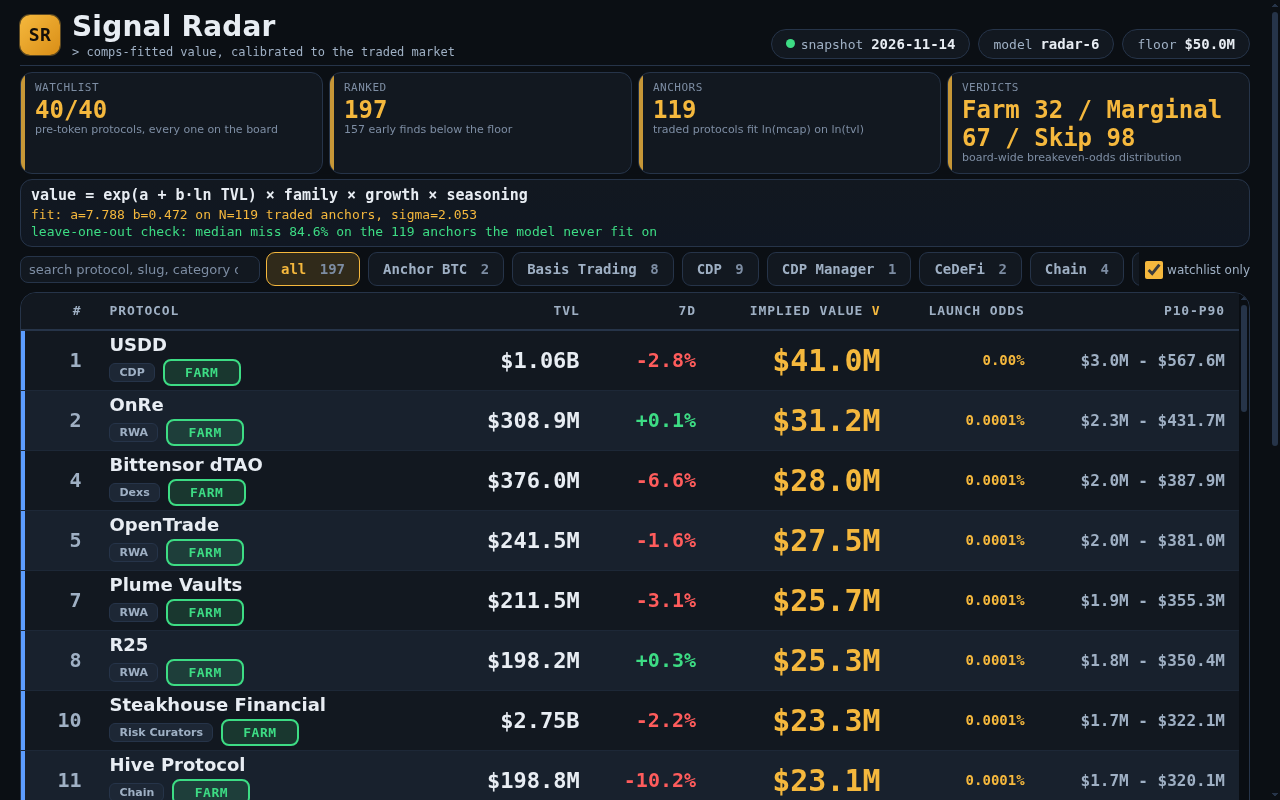
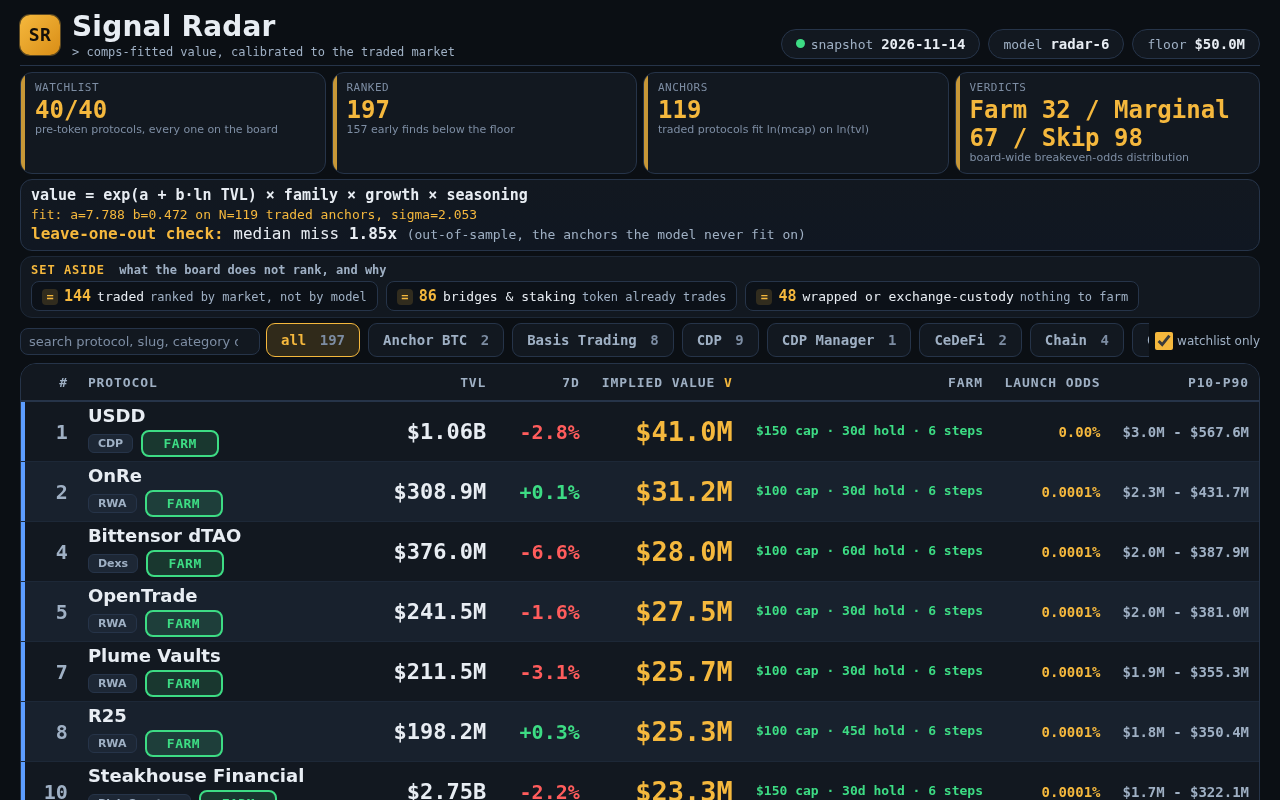
radar-6b: FARM column, set-aside panel, larger LOOCV label
- FARM column on the board shows each row's farm plan summary (cap · hold · steps)
- set-aside panel under the formula strip counts what the board does not rank
  (traded / bridges & staking / wrapped or exchange-custody), computed from the snapshot
- LOOCV leave-one-out label bumped to 16px with amber bold lead-in
- screenshots regenerated (board, detail, filtered)

diff --git a/lib/model.ts b/lib/model.ts
@@ -171,6 +171,8 @@ export interface RadarRow {
   maturity_multiplier: number;
   family_multiplier: number;
   farm_steps: string[];
+  /** One-line farm plan for the board's FARM column: "$100 cap · 45d hold · 6 steps". */
+  farm_summary: string;
 }
 
 /** A live-token protocol: already trading, so it anchors the model instead of being ranked. */
@@ -193,6 +195,21 @@ export interface VerdictThresholds {
   skip_count: number;
 }
 
+/**
+ * The protocols the board sets aside, by reason (radar-6b). These are the snapshot's protocols the
+ * board does not rank, and why: traded protocols the market already prices, bridge/staking wrappers
+ * whose underlying token trades, and wrapped/exchange-custody products with nothing of their own to
+ * farm. The counts come straight from the snapshot, never from a hardcoded list.
+ */
+export interface SetAside {
+  /** Protocols with a market cap (a token that already trades) that the model does not rank. */
+  traded: number;
+  /** Pre-token protocols in a bridge or staking-wrapper category, excluded from the early radar. */
+  bridge_staking: number;
+  /** Pre-token protocols set aside as wrapped/staked-by-name, exchange-named or CEX custody. */
+  wrapped_exchange: number;
+}
+
 /** Everything the dashboard renders, from the snapshot. */
 export interface RadarData {
   as_of: string;
@@ -209,6 +226,7 @@ export interface RadarData {
   live_size: number;
   verdict_thresholds: VerdictThresholds;
   verdict_counts: { farm: number; marginal: number; skip: number };
+  set_aside: SetAside;
   rows: RadarRow[];
   live: LiveRow[];
 }
@@ -427,6 +445,9 @@ const DERIVATIVE_WORD = /\b(wrapped|staked|staking|stake|restaked|restaking|coll
 /** Categories that are bridges or staking wrappers of existing tokens, or an exchange itself. */
 const OFF_LIMITS = new Set(['CEX', 'Bridge', 'Canonical Bridge', 'Liquid Staking', 'Liquid Restaking', 'Restaked BTC']);
 
+/** The bridge/staking-wrapper categories, apart from CEX: their product wraps a token that trades. */
+const BRIDGE_STAKING_CATEGORIES = new Set(['Bridge', 'Canonical Bridge', 'Liquid Staking', 'Liquid Restaking', 'Restaked BTC']);
+
 /** Whether a protocol records no token at all. */
 export function isPreToken(p: SnapshotProtocol): boolean {
   return p.mcap_usd === null && p.gecko_id === null && p.symbol === null;
@@ -441,6 +462,35 @@ export function isEarlyRadar(p: SnapshotProtocol): boolean {
     !EXCHANGE_PREFIX.test(p.name) &&
     !DERIVATIVE_WORD.test(p.name)
   );
+}
+
+/**
+ * The snapshot's protocols the board does not rank, counted by reason: traded protocols the market
+ * already prices (they anchor the comps fit instead), pre-token bridge/staking wrappers whose
+ * underlying token trades, and wrapped/staked-by-name or exchange-custody products with nothing of
+ * their own to farm. The three counts answer "what was set aside, and why".
+ */
+export function setAside(snapshot: Snapshot): SetAside {
+  const watch = new Set(snapshot.watchlist);
+  let traded = 0;
+  let bridge_staking = 0;
+  let wrapped_exchange = 0;
+  for (const p of snapshot.protocols) {
+    if (p.mcap_usd !== null && !watch.has(p.slug)) {
+      traded++;
+      continue;
+    }
+    if (!isPreToken(p)) continue;
+    const cat = p.category ?? '';
+    if (BRIDGE_STAKING_CATEGORIES.has(cat)) {
+      bridge_staking++;
+      continue;
+    }
+    if (cat === 'CEX' || DERIVATIVE_WORD.test(p.name) || EXCHANGE_PREFIX.test(p.name)) {
+      wrapped_exchange++;
+    }
+  }
+  return { traded, bridge_staking, wrapped_exchange };
 }
 
 /** Categories where reported TVL is largely managed/curated AUM and can overstate tokenizable value. */
@@ -549,11 +599,16 @@ function chainOf(p: SnapshotProtocol): string {
 }
 
 /** How much capital one farm position needs, from the protocol's own TVL. */
-function capitalFor(p: SnapshotProtocol): number {
-  if (p.tvl_usd >= 5_000_000_000) return 250;
-  if (p.tvl_usd >= 1_000_000_000) return 150;
-  if (p.tvl_usd >= 100_000_000) return 100;
+function capitalForTvl(tvlUsd: number): number {
+  if (tvlUsd >= 5_000_000_000) return 250;
+  if (tvlUsd >= 1_000_000_000) return 150;
+  if (tvlUsd >= 100_000_000) return 100;
   return 50;
+}
+
+/** How much capital one farm position needs, from the protocol's own TVL. */
+function capitalFor(p: SnapshotProtocol): number {
+  return capitalForTvl(p.tvl_usd);
 }
 
 /** How long to hold, from the protocol's age: a young protocol gets a longer qualifying window. */
@@ -562,6 +617,11 @@ function holdDaysFor(age: number | null): number {
   if (age < 180) return 60;
   if (age < 365) return 45;
   return 30;
+}
+
+/** One line for the board's FARM column: the plan's capital, hold window and step count. */
+export function farmSummary(tvlUsd: number, age: number | null): string {
+  return `$${capitalForTvl(tvlUsd)} cap · ${holdDaysFor(age)}d hold · 6 steps`;
 }
 
 /** The trend sentence the plan carries: the protocol's own seven-day TVL change. */
@@ -680,6 +740,7 @@ export function radarRow(row: BoardRow): RadarRow {
     maturity_multiplier: row.model.seasoning_multiplier,
     family_multiplier: row.model.family_multiplier,
     farm_steps: row.farm_steps,
+    farm_summary: farmSummary(row.tvl_usd, row.age_days),
   };
 }
 
@@ -705,6 +766,7 @@ export function buildRadar(snapshot: Snapshot, model: ModelConstants = MODEL): {
     live_size: liveAnchorCount(snapshot),
     verdict_thresholds: thresholds,
     verdict_counts: { farm: thresholds.farm_count, marginal: thresholds.marginal_count, skip: thresholds.skip_count },
+    set_aside: setAside(snapshot),
     rows: board.map(radarRow),
     live,
   };

diff --git a/dashboard/app.css b/dashboard/app.css
@@ -65,10 +65,38 @@ button, input { font: inherit; color: inherit; }
 .f-line { font-family: var(--mono); line-height: 1.35; }
 .f-line.f1 { font-size: 15px; font-weight: 800; color: var(--text); margin-bottom: 1px; }
 .f-line.f2 { font-size: 13px; color: var(--amber); margin-bottom: 0px; }
-.f-line.f3 { font-size: 13px; color: var(--green); }
+.f-line.f3 { font-size: 16px; color: var(--text); }
+.f-line.f3 .loo-label { color: var(--amber); font-weight: 800; }
+.f-line.f3 .loo-num { color: var(--text); font-weight: 800; }
+.f-line.f3 .loo-note { color: var(--dim); font-size: 13px; }
 .odds-explain span:last-child { color: var(--faint); font-size: 13px; font-style: italic; }
 td.odds { font-family: var(--mono); font-size: 14px; font-weight: 700; color: var(--amber); }
 
+/* ---------- set-aside panel (radar-6b): what the board excludes and why ---------- */
+.set-aside {
+  margin: 0 0 5px;
+  padding: 6px 10px;
+  border: 1px solid var(--line-soft);
+  border-radius: 12px;
+  background: var(--panel);
+}
+.sa-head {
+  font-family: var(--mono); font-size: 12px; font-weight: 800; letter-spacing: 1px;
+  color: var(--amber); text-transform: uppercase; margin-bottom: 4px;
+}
+.sa-head .sa-sub { color: var(--dim); font-weight: 600; text-transform: none; letter-spacing: 0; margin-left: 6px; font-size: 12px; }
+.sa-chips { display: flex; gap: 8px; flex-wrap: wrap; }
+.sa-chip {
+  display: inline-flex; align-items: baseline; gap: 6px;
+  background: #0c1118; border: 1px solid var(--line); border-radius: 8px;
+  padding: 5px 10px; font-size: 13px; color: var(--text); font-family: var(--mono); white-space: nowrap;
+}
+.sa-chip .sa-ico {
+  display: inline-grid; place-items: center; width: 16px; height: 16px; border-radius: 4px;
+  background: var(--amber-soft); color: var(--amber); font-style: normal; font-weight: 800; font-size: 12px;
+}
+.sa-chip b { color: var(--amber); font-size: 15px; font-weight: 800; }
+.sa-chip .sa-why { color: var(--dim); font-size: 12px; }
 
 /* ---------- controls ---------- */
 .controls { display: flex; gap: 6px; align-items: center; flex-wrap: nowrap; margin-bottom: 4px; }
@@ -93,7 +121,7 @@ td.odds { font-family: var(--mono); font-size: 14px; font-weight: 700; color: va
 .table-scroll { overflow-y: auto; max-height: 524px; scrollbar-width: thin; scrollbar-color: var(--line) #0a0e13; }
 table.board { width: 100%; border-collapse: separate; border-spacing: 0; font-size: 15px; }
 thead th {
-  height: 38px; padding: 0 14px; vertical-align: middle;
+  height: 38px; padding: 0 10px; vertical-align: middle;
   text-align: left; color: var(--dim); font-weight: 800; font-size: 13px;
   text-transform: uppercase; letter-spacing: 0.9px;
   border-bottom: 2px solid var(--line); cursor: pointer; user-select: none; white-space: nowrap;
@@ -106,7 +134,7 @@ thead th.sort-asc::after { content: " ^"; color: var(--amber); }
 tbody tr { height: 60px; }
 tbody tr:nth-child(odd) { background: var(--panel); }
 tbody tr:nth-child(even) { background: var(--panel-2); }
-tbody td { padding: 0 14px; border-bottom: 1px solid var(--line-soft); vertical-align: middle; }
+tbody td { padding: 0 10px; border-bottom: 1px solid var(--line-soft); vertical-align: middle; }
 tbody tr { cursor: pointer; }
 tbody tr:hover { background: var(--amber-soft); }
 tbody tr.wl { box-shadow: inset 4px 0 0 var(--blue); }
@@ -121,8 +149,9 @@ td.grow { font-size: 20px; font-weight: 800; }
 td.grow.up { color: var(--green); }
 td.grow.down { color: var(--red); }
 td.grow.flat { color: var(--faint); }
-td.value { font-size: 30px; font-weight: 800; color: var(--amber); }
-td.pband { color: var(--dim); font-size: 16px; font-weight: 600; }
+td.value { font-size: 27px; font-weight: 800; color: var(--amber); }
+td.farm { color: var(--green); font-size: 13px; font-weight: 700; line-height: 1.25; }
+td.pband { color: var(--dim); font-size: 14px; font-weight: 600; }
 .verdict { display: inline-block; text-align: center; min-width: 78px; padding: 4px 12px; border-radius: 8px; font-size: 13px; font-weight: 800; font-family: var(--mono); letter-spacing: 0.5px; text-transform: uppercase; border: 2px solid; }
 .verdict.farm { color: var(--green); border-color: var(--green); background: var(--green-soft); }
 .verdict.marginal { color: var(--amber); border-color: var(--amber); background: var(--amber-soft); }

diff --git a/dashboard/app.js b/dashboard/app.js
@@ -73,7 +73,22 @@
     fstrip.innerHTML =
       `<div class="f-line f1">value = exp(a + b·ln TVL) × family × growth × seasoning</div>` +
       `<div class="f-line f2">fit: a=${aTxt}  b=${bTxt}  on N=${nTxt} traded anchors, sigma=${sTxt}</div>` +
-      `<div class="f-line f3">leave-one-out check: median miss ${looTxt} (out-of-sample, the anchors the model never fit on)</div>`;
+      `<div class="f-line f3"><span class="loo-label">leave-one-out check:</span> median miss <span class="loo-num">${looTxt}</span> <span class="loo-note">(out-of-sample, the anchors the model never fit on)</span></div>`;
+  }
+
+  // set-aside panel (radar-6b): the snapshot's protocols the board does not rank, and why
+  const aside = $("set-aside");
+  if (aside) {
+    const sa = R.set_aside;
+    if (sa) {
+      aside.innerHTML =
+        `<div class="sa-head">SET ASIDE <span class="sa-sub">what the board does not rank, and why</span></div>` +
+        `<div class="sa-chips">` +
+        `<span class="sa-chip"><i class="sa-ico">=</i><b>${sa.traded}</b> traded <span class="sa-why">ranked by market, not by model</span></span>` +
+        `<span class="sa-chip"><i class="sa-ico">=</i><b>${sa.bridge_staking}</b> bridges &amp; staking <span class="sa-why">token already trades</span></span>` +
+        `<span class="sa-chip"><i class="sa-ico">=</i><b>${sa.wrapped_exchange}</b> wrapped or exchange-custody <span class="sa-why">nothing to farm</span></span>` +
+        `</div>`;
+    }
   }
 
   // model formula panel
@@ -151,6 +166,7 @@
       <td class="num tvl">${fmtUsd(r.tvl_usd)}</td>
       <td class="num grow ${gCls}">${gTxt}</td>
       <td class="num value">${fmtUsd(r.implied_value_usd)}</td>
+      <td class="num farm">${esc(r.farm_summary ?? "")}</td>
       <td class="num odds">${fmtOddsPct(r.breakeven_odds_pct)}</td>
       <td class="num pband">${fmtUsd(r.p10_usd)} - ${fmtUsd(r.p90_usd)}</td>
     </tr>`;

diff --git a/dashboard/index.html b/dashboard/index.html
@@ -26,6 +26,8 @@
 
 <section class="formula-strip" id="formula-strip"></section>
 
+<section class="set-aside" id="set-aside"></section>
+
 <section class="controls">
   <input id="q" type="search" placeholder="search protocol, slug, category or chain">
   <div class="chips" id="chips"></div>
@@ -42,6 +44,7 @@
           <th class="num" data-key="tvl_usd">tvl</th>
           <th class="num" data-key="change_7d">7d</th>
           <th class="num" data-key="implied_value_usd">implied value</th>
+          <th class="num">farm</th>
           <th class="num" data-key="breakeven_odds_pct">LAUNCH ODDS</th>
           <th class="num">p10-p90</th>
         </tr>
